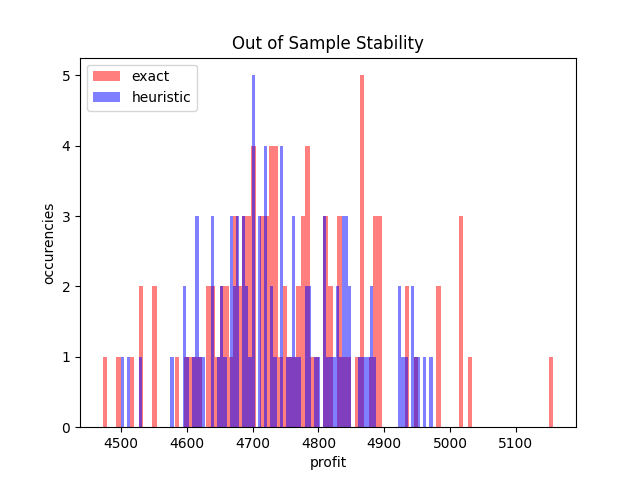
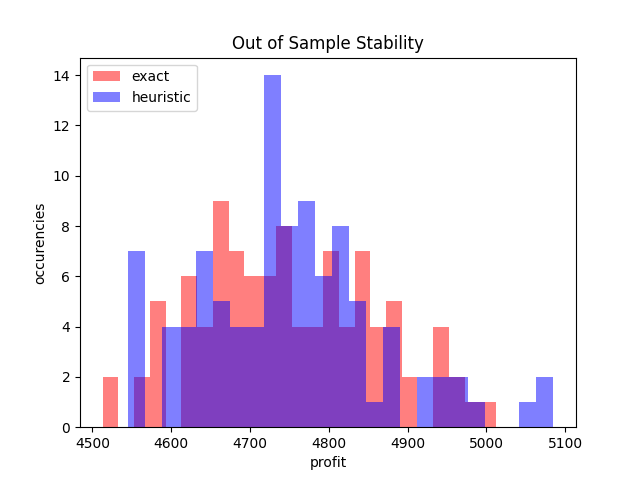
grid_search

diff --git a/main.py b/main.py
@@ -11,6 +11,8 @@ from solver.BikeSharing import BikeSharing
 from heuristic.simpleHeu import SimpleHeu
 from solver.sampler import Sampler
 from utility.plot_results import plot_comparison_hist
+import csv
+import itertools
 
 np.random.seed(0)
 
@@ -32,8 +34,9 @@ if __name__ == '__main__':
     inst = Instance(sim_setting)
     dict_data = inst.get_data()
 
+
     # Reward generation
-    #n_scenarios = 1000
+    n_scenarios = 1000
     """
     We create the demand matrixes by using a monte carlo distribution that chooses between:
     - exponential
@@ -42,11 +45,10 @@ if __name__ == '__main__':
     distributions.
     We also pass the inst variable which contains all the input settings.
     """
-    # demand_matrix = sam.sample_stoch(
-    #     inst,
-    #     n_scenarios=n_scenarios
-    # )
-    # print(demand_matrix.shape)
+    demand_matrix = sam.sample_stoch(
+        inst,
+        n_scenarios=n_scenarios
+    )
 
 
     """
@@ -54,33 +56,49 @@ if __name__ == '__main__':
     """
     prb = BikeSharing()
     # of_exact, sol_exact, comp_time_exact = prb.solve(
-    #     dict_data,
+    #     inst,
     #     demand_matrix,
     #     n_scenarios,
     #     verbose=True
     # )
-    # #print(sol_exact)
+    #print(sol_exact)
 
     """
     heuristic solution using the progressive hedging algorithm
     """
     heu = SimpleHeu()
     # of_heu, sol_heu, comp_time_heu = heu.solve(
-    #     dict_data,
+    #     inst,
     #     demand_matrix,
     #     n_scenarios,
     # )
     # print(of_heu, sol_heu, comp_time_heu)
     # print(of_exact, sol_exact, comp_time_exact)
 
-    # COMPARISONS:
-    test = Tester()
-    n_scenarios = 1000
+    # printing results of a file
+    file_output = open(
+        "./results/grid_serach_penalty.csv",
+        "w"
+    )
+    file_output.write("method, of, sol, time, rho\n")
+
+
+    #for r, alpha, toll in itertools.izip(np.arange(0, 1, 0.1), np.arange(0, 1, 0.1), [10, 1, 1e-1, 1e-2, 1e-3, 1e-4]):
     
-    #res_in_sample = test.out_of_sample_stability(prb, sam, inst, 100, n_scenarios)
-    
-    #plt.hist(res_in_sample)
-    #plt.show()
+    for r in np.arange(0, 1, 0.1):
+        print("TRYING WITH PENALTY OF: ", r)
+        of_heu, sol_heu, comp_time_heu = heu.solve(
+            inst,
+            demand_matrix,
+            n_scenarios,
+            r
+        )
+
+        file_output.write("{}, {}, {}, {}, {}, {}, {}\n".format(
+            "heu", of_heu, sol_heu, comp_time_heu, r#, alpha, toll
+        ))
+
+    file_output.close()
 
     # #########################################################
     # RECOURSE PROBLEM
@@ -117,6 +135,13 @@ if __name__ == '__main__':
     """
     The Scenarios are all blend together and only the average of them is considered. The resulting solution is clearly suboptimal but allows us to understand what is the actual loss in not considering stochasticity at all.
     """
+    # of_EV, sol_EV, comp_time_EV = prb.solve_EV(
+    #     dict_data,
+    #     demand_matrix,
+    #     n_scenarios,
+    #     verbose=True
+    # )
+
     # demand_EV = sam.sample_stoch(
     #     inst,
     #     n_scenarios=n_scenarios
@@ -165,11 +190,11 @@ if __name__ == '__main__':
     # n_scenarios = 1000
     # n_rep = 100
     
-    # ris1 = test.in_sample_stability(prb, sam, inst, n_rep, n_scenarios)
-    # ris2 = test.in_sample_stability(heu, sam, inst, n_rep, n_scenarios)
+    # in_samp_exact = test.in_sample_stability(prb, sam, inst, n_rep, n_scenarios)
+    # in_samp_heu = test.in_sample_stability(heu, sam, inst, n_rep, n_scenarios)
 
     # plot_comparison_hist(
-    #     [ris1, ris2],
+    #     [in_samp_exact, in_samp_heu],
     #     ["exact", "heuristic"],
     #     ['red', 'blue'], "In Sample Stability",
     #     "profit", "occurencies"
@@ -181,26 +206,39 @@ if __name__ == '__main__':
     """
     The out-of-sample stability test investigates whether a scenario generation method, with the selected sample  size,  creates  scenario  trees  that  provide  optimal  solutions  that  give  approximately  the  same optimal value as when using the true probability distribution.
     """
-    test = Tester()
-    n_scenarios_first = 500
-    n_scenarios_second = 500
-    n_rep = 100
-    print("OUT OF SAMPLE STABILITY ANALYSIS")
+    # n_scenarios_first = 500
+    # n_scenarios_second = 500
+    # n_rep = 100
+    # print("OUT OF SAMPLE STABILITY ANALYSIS")
     
-    print("EXACT MODEL START...")
-    ris1 = test.out_of_sample_stability(prb, sam, inst, n_rep, n_scenarios_first, n_scenarios_second)
+    # print("EXACT MODEL START...")
+    # out_samp_exact = test.out_of_sample_stability(prb, sam, inst, n_rep, n_scenarios_first, n_scenarios_second)
     
-    print("HEUTISTIC MODEL START...")
-    ris2 = test.out_of_sample_stability(heu, sam, inst, n_rep, n_scenarios_first, n_scenarios_second)
+    # print("HEUTISTIC MODEL START...")
+    # out_samp_heu = test.out_of_sample_stability(heu, sam, inst, n_rep, n_scenarios_first, n_scenarios_second)
 
-    plot_comparison_hist(
-        [ris1, ris2],
-        ["exact", "heuristic"],
-        ['red', 'blue'], "Out of Sample Stability",
-        "profit", "occurencies"
-    )
+    # plot_comparison_hist(
+    #     [out_samp_exact, out_samp_heu],
+    #     ["exact", "heuristic"],
+    #     ['red', 'blue'], "Out of Sample Stability",
+    #     "profit", "occurencies"
+    # )
+
+    # ##########################################################################################
+    # write results of in and out of saple analysis so you don't have to run it again
+    # ##########################################################################################
+    # rows = zip(in_samp_exact, in_samp_heu, out_samp_exact, out_samp_heu)
+
+    # with open("./results/stability.csv", "w") as f:
+    #     writer = csv.writer(f)
+    #     f.write("in_samp_exact, in_samp_heu, out_samp_exact, out_samp_heu\n")
+    #     for row in rows:
+    #         writer.writerow(row)
 
 
+    # #######################################################################
+    # ALTRO
+    # #######################################################################
     # heu = SimpleHeu(2)
     # of_heu, sol_heu, comp_time_heu = heu.solve(
     #     dict_data

diff --git a/utility/OD_matrix_gen.py b/utility/OD_matrix_gen.py
@@ -4,7 +4,7 @@ import random
 random.seed(42)
 
 class Generator():
-    def __init__(self, n_scenarios = 1000, n_stations = 22):
+    def __init__(self, n_scenarios = 1000, n_stations = 22, distr = 'norm'):
         self.min_od_matrix = np.around(np.absolute(np.random.uniform(
                     0,1,
                     size=(n_stations, n_stations))
@@ -17,8 +17,18 @@ class Generator():
         self.mean_od_matrix = np.around(np.mean( np.array([ self.min_od_matrix, self.max_od_matrix ]), axis=0 ))
         self.std_od_matrix = np.around(np.std( np.array([ self.min_od_matrix, self.max_od_matrix ]), axis=0 ))
 
-        self.func_list = [self.normal_matrix(), self.uniform_matrix(), self.exponential_matrix()]
-        self.scenario_arrays = [self.func_list[random.randint(0,2)] for _ in range(n_scenarios)]
+        #self.func_list = [self.normal_matrix(), self.uniform_matrix(), self.exponential_matrix()]
+
+        if distr  == 'norm':
+            self.demand_distr = self.normal_matrix()
+        elif distr == 'uni':
+            self.demand_distr = self.uniform_matrix()
+        elif distr == 'expo':
+            self.demand_distr = self.exponential_matrix()
+        else:
+            raise ValueError("distribution must be one between 'norm', 'uni' and 'expo'")
+
+        self.scenario_arrays = [self.demand_distr for _ in range(n_scenarios)]
         self.scenario_res = np.stack(self.scenario_arrays, axis=2)
 
     def normal_matrix(self):

diff --git a/heuristic/simpleHeu.py b/heuristic/simpleHeu.py
@@ -92,6 +92,7 @@ class SimpleHeu():
 
         relax = np.dot(lambd,(np.array(sol)-TGS).T)
         penalty = (pen_rho/2)*(np.dot((np.array(sol)-TGS),(np.array(sol)-TGS).T))
+        #penalty = (pen_rho/2) * np.linalg.norm(np.array(sol)-TGS, 1)
        ### Objective Function
         obj_funct = dict_data["procurement_cost"] * gp.quicksum(X[i] for i in stations)
         
@@ -102,6 +103,8 @@ class SimpleHeu():
                 gp.quicksum(dict_data['trans_ship_cost'][i][j]*tau[i, j]  for j in stations)
             ) for i in stations
         )
+        obj_funct += relax + penalty
+
 
         #obj_funct += relax + penalty
 
@@ -176,7 +179,7 @@ class SimpleHeu():
     
 
     def solve(
-        self, instance, demand_matrix, n_scenarios,
+        self, instance, demand_matrix, n_scenarios, rho = 1, alpha=1, toll_obj_func = 1e-2
     ):
         ans = []
         of_array = []
@@ -191,7 +194,7 @@ class SimpleHeu():
         
         # tollearce for convergence
         toll_solution = 2
-        toll_obj_func = 1e-3
+        #toll_obj_func = 1e-2
 
         # max iterations
         maxiter = 100
@@ -203,10 +206,10 @@ class SimpleHeu():
         lam = np.zeros((n_scenarios, dict_data['n_stations']))
 
         # penalty: to choose appropiately
-        rho = 1
+        #rho = 1
 
         # alpha step
-        alpha = 1
+        #alpha = 1
 
         start = time.time()
         # solve the base problem for each of the solutions

diff --git a/solver/sampler.py b/solver/sampler.py
@@ -10,11 +10,11 @@ class Sampler:
         demand = self.sample_stoch(instance, n_scenarios)
         return np.around(np.average(demand, axis=2))
 
-    def sample_stoch(self, instance, n_scenarios):
+    def sample_stoch(self, instance, n_scenarios, distribution='norm'):
         # return np.around(np.absolute(np.random.normal(
         #     1,
         #     0,
         #     size=(instance.n_stations, instance.n_stations, n_scenarios))
         # ))
-        generator = gen.Generator(n_scenarios, instance.n_stations)
+        generator = gen.Generator(n_scenarios, instance.n_stations, distribution)
         return generator.scenario_res

diff --git a/simulator/tester.py b/simulator/tester.py
@@ -355,9 +355,8 @@ class Tester():
                 instance,
                 n_scenarios=n_scenarios_sol
             )
-            dict_data = instance.get_data()
             of, sol, comp_time = problem.solve(
-                dict_data,
+                instance,
                 reward,
                 n_scenarios_sol
             )
